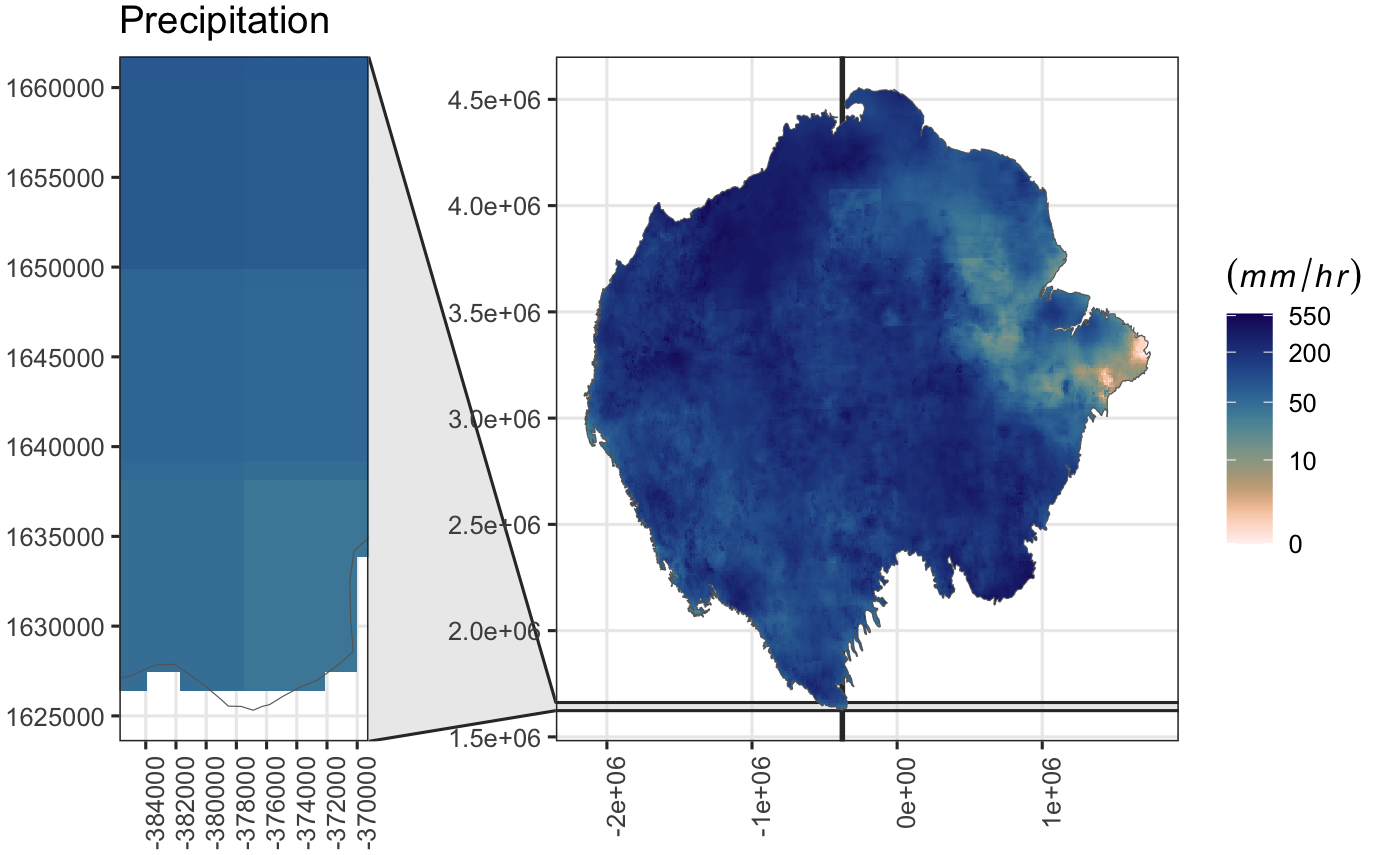
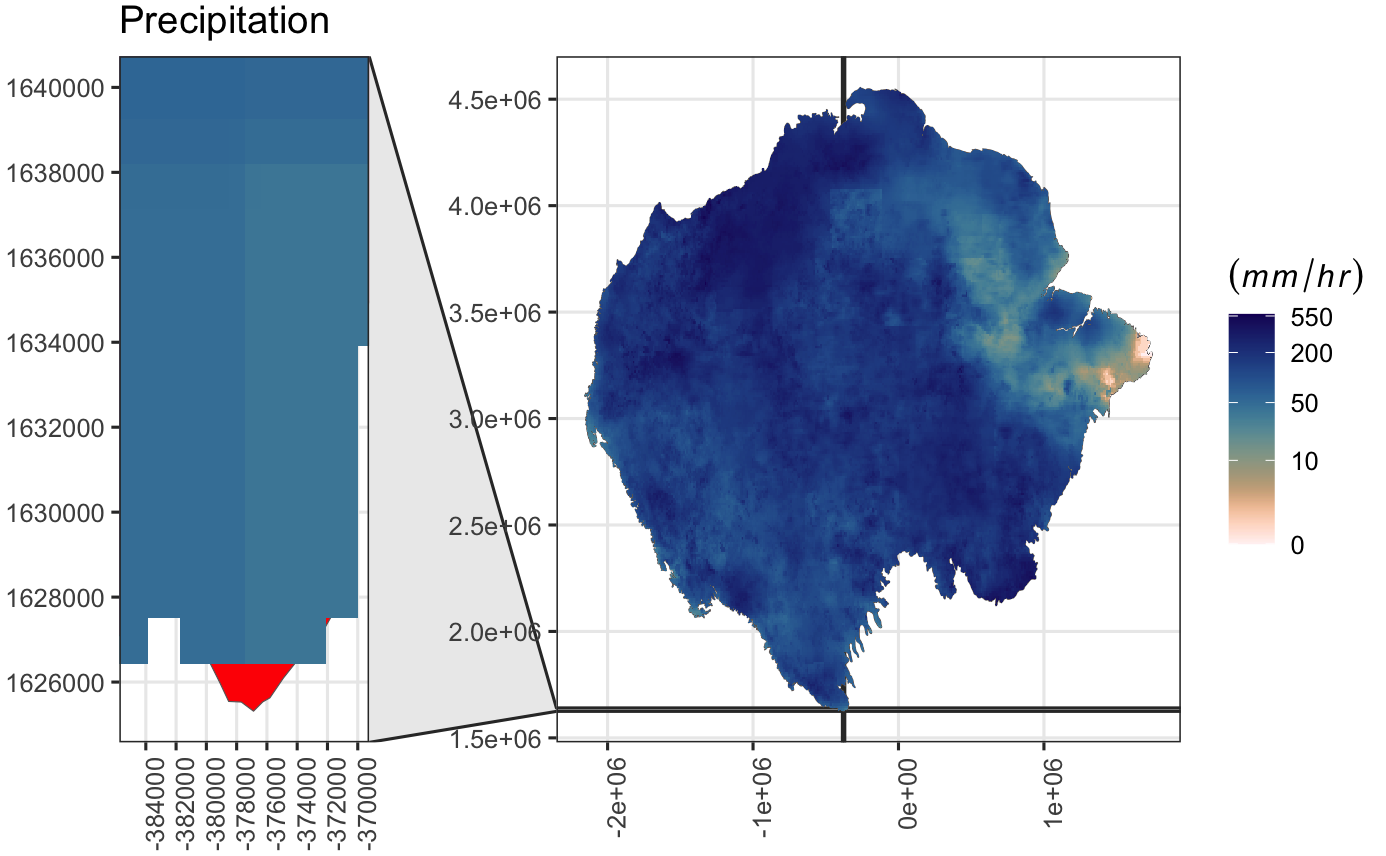
update

diff --git a/1_data_analysis_&_missing_data/README.md b/1_data_analysis_&_missing_data/README.md
@@ -564,13 +564,14 @@ precipitation.freq.na
 # Applying the mask to plot only the amazon area.
 prec <- precipitation.rts[['2020-10-01']] %>% mask(mask = amaz.basin.shp)
 # define the zoom area
-prec.xy.zoom <- list(xmin=-0.385e+06, xmax=-0.37e+06, ymin=ymin(prec), ymax=1.66e+06, zoom=0.4)
+prec.xy.zoom <- list(xmin=-0.385e+06, xmax=-0.37e+06, ymin=ymin(prec), ymax=1.64e+06, zoom=0.4)
 # Plot
 p.prec.na <- myPlot(
   prec, title = "Precipitation", 
   max_cell=1e7,
   x_angle=90,
   b_size=12,
+  na.color="red",
   xy.zoom = prec.xy.zoom
 ) + 
   scale_fill_scico(
@@ -1192,6 +1193,37 @@ humidity.freq.na
 
 <p align="center">
   <img src="img/7.3.hum.png"  width="70%" />
+</p>
+
+#### Plot Missing Data
+
+<details>
+    <summary><em>Show/Hide code</em></summary>
+
+```r
+# Applying the mask to plot only the amazon area.
+hum <- humidity.rts[['2020-10-01']] %>% mask(mask = amaz.basin.shp)
+# define the zoom area
+hum.xy.zoom <- list(xmin=1.e+06, xmax=1.4e+06, ymin=3.4e+06, ymax=4e+06, zoom=0.4)
+# Plot
+p.hum.na <- myPlot(
+  hum, title = "Humidity", 
+  max_cell=1e7,
+  x_angle=90,
+  b_size=12,
+  na.color="red",
+  xy.zoom = hum.xy.zoom
+) +
+  scale_fill_cross_blended_c(
+    name = TeX(r"($\textit{(kg_{water} / kg_{air})$})"),
+    palette = "warm_humid", 
+    na.value = "transparent")
+p.hum.na
+```
+</details>
+
+<p align="center">
+  <img src="img/7.4.hum.png"  width="70%" />
 </p>
 
 ## 1.8. Evapotranspiration
